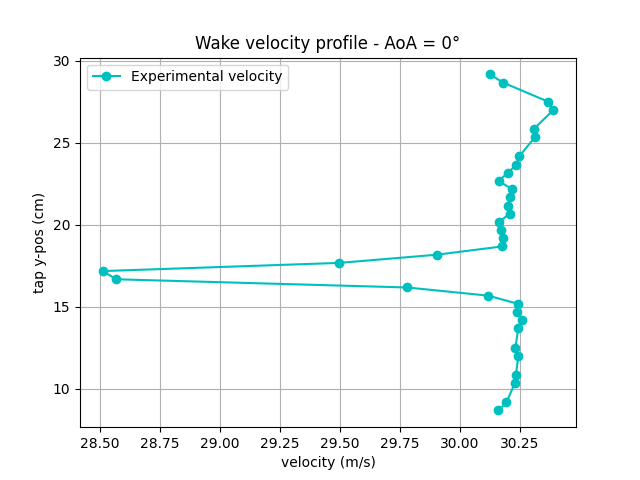
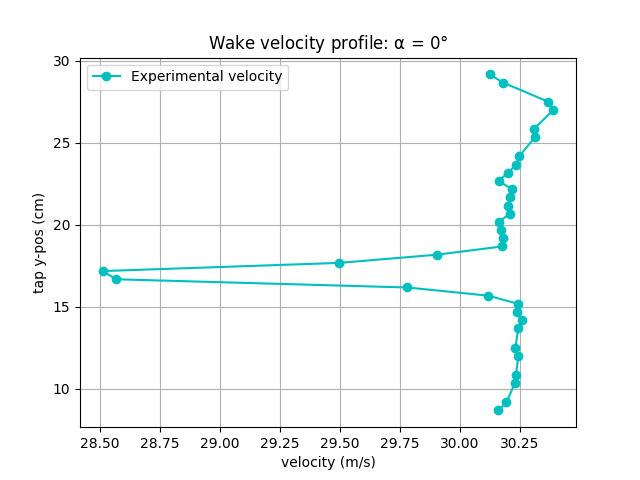
updated vel graphs and disabled graph calls

Changed region(s): [[0.3125, 0.0625, 0.7188, 0.125]]

diff --git a/src/main.py b/src/main.py
@@ -96,7 +96,7 @@ for i,a in enumerate(alpha):
     pos_r2 = y_0[i] + dir[i]*0.5
     U_inf, U_inf_err, V_r, V_r_err, V_pos, v_r1, v_r2, pos_r1, pos_r2 = Velocity(p_r1, p_r2, p_r1_err, p_r2_err, pos_r1, pos_r2)
 
-    VelGraph(a, V_r, V_r_err, V_pos)
+    # VelGraph(a, V_r, V_r_err, V_pos)
 
     # plt.plot(V_r, V_pos)
     # # plt.plot(v_r1[0], pos_r1)
@@ -114,7 +114,7 @@ for i,a in enumerate(alpha):
     # print((Cp_top_err))
 
     #CP PLOTTING TEMP:
-    CpGraph(a, Cp_top, Cp_bot, Cp_top_err, Cp_bot_err)
+    # CpGraph(a, Cp_top, Cp_bot, Cp_top_err, Cp_bot_err)
 
     
 

diff --git a/src/Graphing.py b/src/Graphing.py
@@ -83,7 +83,9 @@ def VelGraph(a: np.int32, V_r: np.array, V_r_err: np.array, V_pos: np.array):
     '''
 
     plt.errorbar(V_r, V_pos, xerr=V_r_err, color = 'c', marker = 'o')
-    plt.title('Wake velocity profile - AoA = ' + str(a) + u'\N{DEGREE SIGN}')
+    params = {'mathtext.default': 'regular' }          
+    plt.rcParams.update(params)
+    plt.title('Wake velocity profile: $α$ = ' + str(a) + u'\N{DEGREE SIGN}')
     plt.xlabel('velocity (m/s)')
     plt.ylabel('tap y-pos (cm)')
     plt.legend(['Experimental velocity'])
